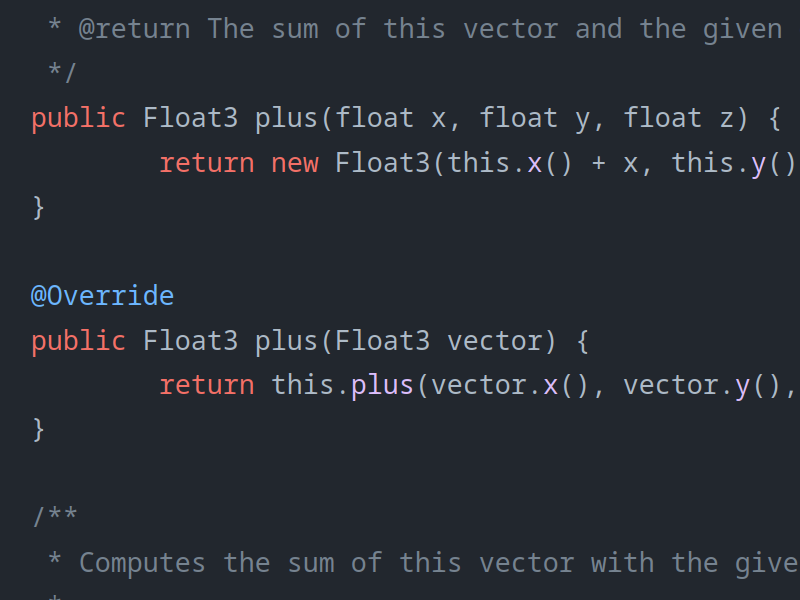
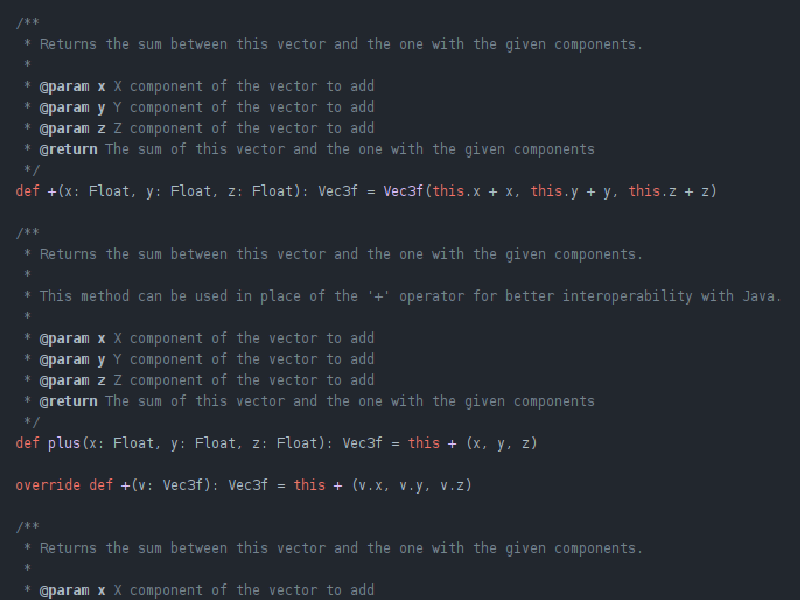
Updated VecMatLib

diff --git a/pages/vecmatlib.html b/pages/vecmatlib.html
@@ -111,15 +111,16 @@
               <h3>Project information</h3>
               <ul>
                 <li><strong>Category</strong>: Software tools</li>
-                <li><strong>Project date</strong>: May 2022</li>
-                <li><strong>Project URL</strong>: <a href="https://github.com/VecMatLib/VecMatLib" target="_blank">github.com/VecMatLib/VecMatLib</a></li>
+                <li><strong>Project date</strong>: May 2022 / December 2022</li>
+                <li><strong>Project URL</strong>: <a href="https://github.com/HexagonNico/VecMatLib" target="_blank">github.com/HexagonNico/VecMatLib</a></li>
               </ul>
             </div>
             <div class="portfolio-description">
-              <h2>A Java library that provides data structures to represent vectors and matrices</h2>
+              <h2>A Scala library that provides data structures to represent vectors and matrices</h2>
               <p>
-                I originally created this project for my programming course in university, it was called JLAL at the time.
+                I originally created this project for my Java programming course in university, it was called JLAL at the time.
                 Several months later I came back to improved the project and publish the definitive version.
+                Several more months later I decided to re-write the project in Scala to make use of its operator overloading feature.
               </p>
               <p>
                 VecMatLib provides data structures that represent vectors and matrices and allows the user to compute several operations involving them, such as
